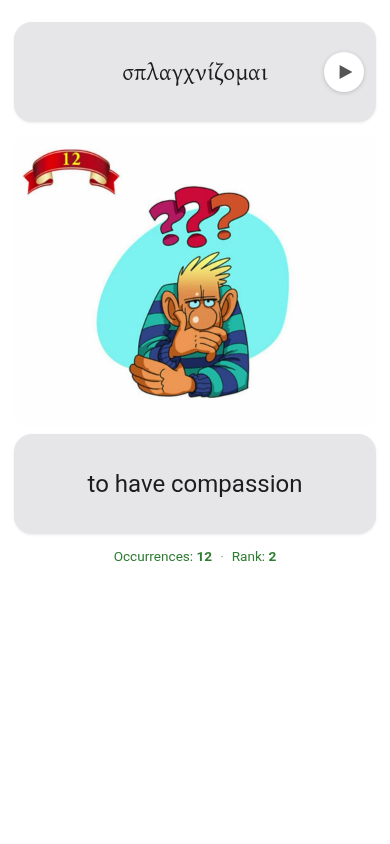
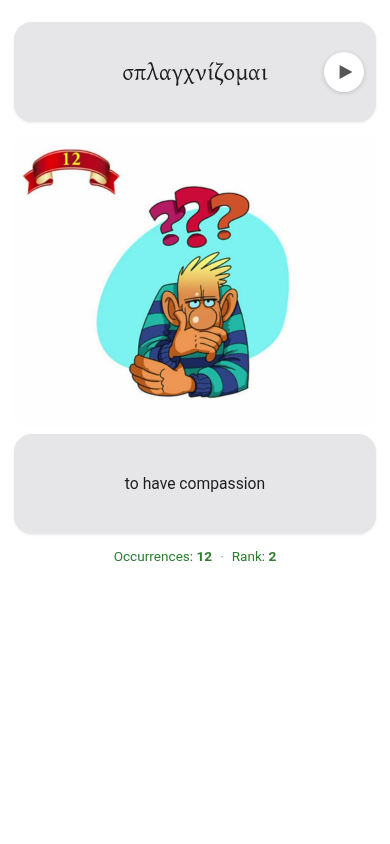
biblegreek: English keeps v1 ratio to Greek (0.96em desktop, 0.98em phone) with Greek 1.5em; equal box heights; previews + trial apkg

Changed region(s): [[0.2154, 0.5545, 0.7692, 0.5853]]

diff --git a/biblegreek/tools_seg/render_preview.py b/biblegreek/tools_seg/render_preview.py
@@ -1,0 +1,16 @@
+import sys; sys.argv=['x','build','biblegreek']; import build_deck as b, subprocess, re
+d=b.load("greek"); ids=["gr-n10p-01","gr-v10p-03","gr-a10p-17"]; ws=[w for w in d["words"] if w["id"] in ids]
+b.package(d, ws, "out/biblegreek_trial.apkg", sheet=False)
+css=b.model_for("greek","ltr").css; tmp="/tmp/g/prev"
+play='<a class="replay-button" href="#"><svg viewBox="0 0 64 64"><circle cx="32" cy="32" r="29"/><path d="M56.502,32.301l-37.502,20.101l0.329,-40.804l37.173,20.703Z"/></svg></a>'
+js='<script>document.fonts.ready.then(()=>{document.body.setAttribute("data-h",[...document.querySelectorAll(".box")].map(e=>e.getBoundingClientRect().height).join(","))})</script>'
+for w in ws:
+    for side,t in (("front",b.FRONT),("back",b.BACK)):
+        h=t.replace("{{Word}}",w["word"]).replace("{{Audio}}",play).replace("{{Image}}",f'<img src="{w["image"]}">').replace("{{English}}",w["english"]).replace("{{Occurrences}}",str(w["occurrences"])).replace("{{Rank}}",str(w["rank"]))
+        for tag in ("#Occurrences","/Occurrences","#Rank","/Rank"): h=h.replace("{{"+tag+"}}","")
+        f=f"{tmp}/{w['id']}_{side}.html"
+        open(f,"w").write(f"<html><head><meta charset=utf-8><style>{css}</style><style>html{{width:390px}}</style></head><body class=card>{h}{js}</body></html>")
+        subprocess.run(["google-chrome","--headless","--no-sandbox","--disable-gpu","--hide-scrollbars","--window-size=390,844","--virtual-time-budget=2000",f"--screenshot=/workspace/ankisets/biblegreek/out/preview_{w['id']}_{side}.png","file://"+f],capture_output=True)
+        if side=="back":
+            o=subprocess.run(["google-chrome","--headless","--no-sandbox","--disable-gpu","--window-size=390,844","--virtual-time-budget=2000","--dump-dom","file://"+f],capture_output=True,text=True).stdout
+            print(w["word"], re.search(r'data-h="([^"]*)"',o).group(1))

diff --git a/tools/build_deck.py b/tools/build_deck.py
@@ -21,7 +21,7 @@ FONTS = os.path.join(REPO, "fonts")
 WORDFONT = {  # lang -> (@font-face rule, .word font-family list)
     "hebrew": ('@font-face{font-family:EzraSIL;src:url("_EzraSIL.ttf")}', "'EzraSIL','Ezra SIL','SBL Hebrew','Times New Roman',serif"),
     "greek": ('@font-face{font-family:GentiumPlus;src:url("_GentiumPlus.ttf")}', "'GentiumPlus','Gentium Plus','Times New Roman',serif")}
-EXTRA_CSS = {"greek": "\n.word,.en{font-size:1.5em;line-height:1.5}@media (max-width:480px){.word,.en{font-size:1.5em}.enbox{padding:22px 24px}}"}  # long dictionary forms fit one line at ~390px
+EXTRA_CSS = {"greek": "\n.word{font-size:1.5em}.en{font-size:.96em}@media (max-width:480px){.word{font-size:1.5em}.en{font-size:.98em}.enbox{padding:22px 24px}}"}  # Greek word 1.5em (fits ~390px); English keeps v1 ratio (1.6/2.5 desktop, 1.4/2.15 phone); boxes equal height
 _models = {}
 def model_for(lang, direction):
     face, fam = WORDFONT[lang]
